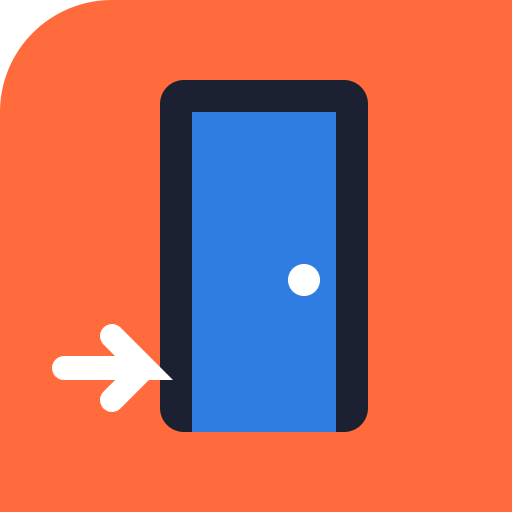
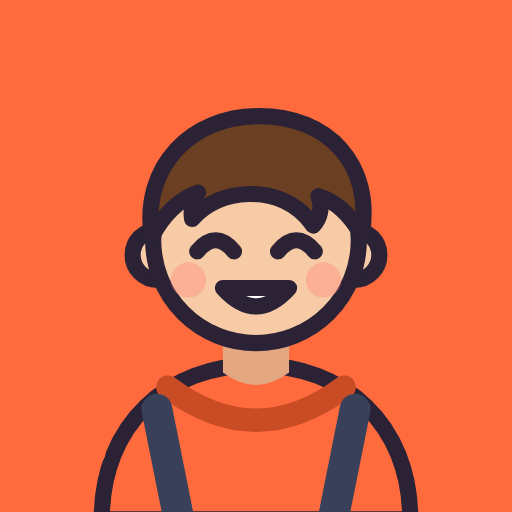
Dibujos propios en SVG para el jugador, el jefe, los compañeros, la oficina, los objetos y las cartas

diff --git a/style.css b/style.css
@@ -28,7 +28,8 @@ body { margin: 0; background: var(--bg); color: var(--ink); font-family: Inter, 
 main { max-width: 920px; margin: 0 auto; padding: 0 16px 24px; }
 .top { max-width: 920px; margin: 0 auto; padding: 14px 16px; display: flex; align-items: center; justify-content: space-between; gap: 12px; }
 .brand { display: flex; align-items: center; gap: 10px; }
-.logo { width: 44px; height: 44px; border-radius: 12px; display: grid; place-items: center; font-size: 1.4rem; background: var(--accent); }
+.logo { width: 44px; height: 44px; border-radius: 12px; display: grid; place-items: center; background: var(--accent); overflow: hidden; }
+.logo img { width: 100%; height: 100%; transform: translateY(3px); }
 h1 { margin: 0; font-family: 'Space Grotesk', sans-serif; font-size: 1.45rem; line-height: 1; }
 .brand p { margin: 3px 0 0; color: var(--muted); font-size: .85rem; }
 .snd { color: var(--muted); font-size: .85rem; display: flex; align-items: center; gap: 6px; }
@@ -46,31 +47,41 @@ h1 { margin: 0; font-family: 'Space Grotesk', sans-serif; font-size: 1.45rem; li
 .play { display: grid; gap: 14px; }
 .office { display: grid; grid-template-columns: repeat(var(--w), 1fr); gap: 3px; padding: 6px; border-radius: 16px; background: var(--line); max-width: 460px; width: 100%; margin: 0 auto; box-shadow: 0 14px 30px rgba(20, 30, 60, .18); }
 .cell { appearance: none; position: relative; aspect-ratio: 1; border: 0; border-radius: 6px; padding: 0; font: inherit; background: var(--floor); display: grid; place-items: center; cursor: default; overflow: hidden; }
-.cell:nth-child(odd) { background: var(--floor-2); }
-.cell.desk { background: linear-gradient(var(--desk-top), var(--desk)); box-shadow: inset 0 -4px 0 rgba(0,0,0,.18); font-size: clamp(.8rem, 4vw, 1.3rem); }
+.cell:nth-child(odd) { background-color: var(--floor-2); }
+.cell:not(.desk) { background-image: radial-gradient(rgba(60, 70, 100, .09) 1px, transparent 1.4px); background-size: 6px 6px; }
+.cell.seen:not(.desk) { background-image: linear-gradient(var(--seen), var(--seen)), radial-gradient(rgba(60, 70, 100, .09) 1px, transparent 1.4px); background-size: auto, 6px 6px; }
+.cell.desk { background: linear-gradient(180deg, #d0a574, #b88b5b); box-shadow: inset 0 -5px 0 #8f6a45, inset 0 2px 0 rgba(255, 255, 255, .25); border-radius: 4px; }
+.cell.desk:nth-child(odd) { background: linear-gradient(180deg, #cba06f, #b38656); }
+.deskobj { position: absolute; inset: 12% 12% 18%; }
+.art { display: block; width: 100%; height: 100%; object-fit: contain; pointer-events: none; -webkit-user-drag: none; }
+.art.tile { position: absolute; inset: 0; }
+.art.mini { display: inline-block; width: 1.25em; height: 1.25em; vertical-align: -.3em; }
+.ico { width: 1.3em; height: 1.3em; vertical-align: -.3em; }
 .cell.seen { background-image: linear-gradient(var(--seen), var(--seen)); }
 .cell.can { cursor: pointer; box-shadow: inset 0 0 0 2px var(--move); }
 .cell.can::after { content: ''; position: absolute; width: 22%; aspect-ratio: 1; border-radius: 50%; background: var(--move); opacity: .55; }
 .cell.can:has(.obj)::after { display: none; }
-.obj { font-size: clamp(1rem, 5.2vw, 1.55rem); line-height: 1; }
+.obj { position: absolute; inset: 6%; display: block; line-height: 1; }
+.obj.mate { inset: 4% 8% 0; }
 .obj.done { filter: grayscale(.6); opacity: .7; }
-.obj.faint { opacity: .45; }
-.tok { position: absolute; inset: 0; display: grid; place-items: center; font-size: clamp(1.15rem, 6vw, 1.8rem); line-height: 1; z-index: 2; }
-.tok.me { background: radial-gradient(circle, rgba(47, 125, 225, .38) 0 58%, transparent 60%); }
-.tok.boss { background: radial-gradient(circle, rgba(235, 52, 52, .4) 0 58%, transparent 60%); }
+.obj.faint { inset: 0; opacity: .55; }
+.tok { position: absolute; inset: 0; display: grid; place-items: end center; padding: 4% 8% 0; z-index: 2; animation: bob 1.6s ease-in-out infinite; }
+@keyframes bob { 50% { transform: translateY(-4%); } }
+.tok.me { background: radial-gradient(ellipse 46% 20% at 50% 92%, rgba(47, 125, 225, .55), transparent); }
+.tok.boss { background: radial-gradient(ellipse 46% 20% at 50% 92%, rgba(235, 52, 52, .6), transparent); }
 .tok.boss.angry { animation: shake .4s ease infinite; filter: drop-shadow(0 0 6px rgba(235, 52, 52, .95)); }
-.dot { position: absolute; right: 3px; top: 3px; width: 9px; height: 9px; border-radius: 50%; border: 1.5px solid #fff; }
+.dot { position: absolute; right: 3px; top: 3px; width: 9px; height: 9px; border-radius: 50%; border: 1.5px solid #fff; z-index: 1; }
 .dot.azul { background: var(--azul); } .dot.verde { background: var(--verde); } .dot.naranja { background: var(--naranja); }
-.q { position: absolute; right: 3px; top: 0; font-style: normal; font-weight: 800; font-size: .7rem; color: var(--muted); }
-.tick { position: absolute; left: 3px; bottom: 0; font-style: normal; font-weight: 800; color: var(--verde); font-size: .8rem; }
-.lock { position: absolute; right: 1px; bottom: 0; font-style: normal; font-size: .7rem; }
+.q { position: absolute; right: 2px; top: 1px; z-index: 1; width: 15px; height: 15px; border-radius: 50%; display: grid; place-items: center; font-style: normal; font-weight: 800; font-size: .65rem; color: #fff; background: var(--accent); }
+.tick { position: absolute; left: 2px; bottom: 2px; z-index: 1; width: 15px; height: 15px; border-radius: 50%; display: grid; place-items: center; font-style: normal; font-weight: 800; color: #fff; background: var(--verde); font-size: .65rem; }
+.lock { position: absolute; right: 2px; bottom: 2px; width: 34%; aspect-ratio: 1; z-index: 1; }
 @keyframes shake { 25% { transform: translateX(-1px) rotate(-4deg); } 75% { transform: translateX(1px) rotate(4deg); } }
 
 .side { max-width: 460px; width: 100%; margin: 0 auto; display: flex; flex-direction: column; gap: 10px; }
 .label { margin: 0 0 4px; font-size: .72rem; color: var(--muted); text-transform: uppercase; letter-spacing: .06em; font-weight: 700; }
 .boss-card { display: flex; gap: 12px; align-items: center; padding: 10px 14px; border-radius: 14px; background: var(--card); border: 2px dashed var(--line); }
 .boss-card.is-now { border-style: solid; border-color: var(--accent); }
-.card-emoji { font-size: 1.9rem; }
+.card-emoji { width: 52px; height: 52px; flex: none; border-radius: 12px; background: var(--bg); padding: 4px; }
 .boss-card strong { display: block; }
 .boss-card small { color: var(--muted); }
 .log { margin: 0; min-height: 3em; padding: 8px 12px; border-radius: 12px; background: color-mix(in srgb, var(--accent) 10%, var(--card)); font-size: .92rem; }
@@ -86,6 +97,8 @@ h1 { margin: 0; font-family: 'Space Grotesk', sans-serif; font-size: 1.45rem; li
 .btn { appearance: none; font: inherit; font-weight: 600; color: var(--ink); background: var(--card); border: 1.5px solid var(--line); border-radius: 12px; padding: 11px; cursor: pointer; }
 .btn:disabled { opacity: .45; cursor: default; }
 .btn-main { background: var(--accent); color: #fff; border-color: var(--accent); }
+.btn-ico { display: flex; align-items: center; justify-content: center; gap: 8px; }
+.btn-ico img { width: 28px; height: 28px; margin: -6px 0; }
 .mates { list-style: none; margin: 0; padding: 0; display: flex; flex-wrap: wrap; gap: 6px; }
 .mates li { position: relative; padding: 4px 10px 4px 20px; border-radius: 999px; background: var(--card); border: 1px solid var(--line); font-size: .85rem; }
 .mates li .dot { left: 7px; top: 50%; transform: translateY(-50%); right: auto; }
@@ -97,7 +110,7 @@ h1 { margin: 0; font-family: 'Space Grotesk', sans-serif; font-size: 1.45rem; li
 .info li { margin: 5px 0; }
 .end { position: fixed; inset: 0; background: rgba(10, 14, 24, .55); display: grid; place-items: center; padding: 16px; z-index: 20; }
 .end-card { background: var(--card); border-radius: 22px; padding: 24px 20px; text-align: center; max-width: 360px; width: 100%; }
-.end-emoji { font-size: 3rem; }
+.end-emoji { display: block; width: 110px; height: 110px; margin: 0 auto; }
 .end-card h2 { font-family: 'Space Grotesk', sans-serif; margin: 6px 0; font-size: 1.8rem; }
 .end-card p { color: var(--muted); margin: 0 0 16px; }
 .end-actions { display: grid; gap: 8px; }

diff --git a/script.js b/script.js
@@ -17,9 +17,9 @@ const STORE = 'huida-lunes-v1';
 const STEP_MS = 140;
 
 const MATES = [
-  { name: 'Ana', emoji: '👩💼', color: 'azul' },
-  { name: 'Luis', emoji: '👨💻', color: 'verde' },
-  { name: 'Marta', emoji: '👩🔬', color: 'naranja' }
+  { name: 'Ana', emoji: '👩💼', art: 'ana', color: 'azul' },
+  { name: 'Luis', emoji: '👨💻', art: 'luis', color: 'verde' },
+  { name: 'Marta', emoji: '👩🔬', art: 'marta', color: 'naranja' }
 ];
 const ITEMS = {
   cafe: { emoji: '☕', name: 'Café', text: 'Este turno mueves 3 casillas más.' },
@@ -40,6 +40,10 @@ const LEVELS = {
   dificil: { name: 'Difícil', vision: 6, turns: 30, deck: { ronda: 3, prisa: 4, cafe: 1, reunion: 0, inspeccion: 2, llama: 2 } }
 };
 const MOVE = 3;
+// dibujos de assets/ (SVG propios)
+const art = (name, cls = '') => `<img class="art ${cls}" src="assets/${name}.svg" alt="" draggable="false">`;
+const ITEM_ART = { cafe: 'cafe', excusa: 'excusa', llamada: 'llamada' };
+const CARD_ART = { ronda: 'carta-ronda', prisa: 'carta-prisa', cafe: 'carta-cafe', reunion: 'carta-reunion', inspeccion: 'carta-inspeccion', llama: 'carta-llama' };
 
 /* ------------------------------- Azar con semilla ------------------------------- */
 
@@ -353,7 +357,7 @@ function finish(win, why) {
 
 function showEnd() {
   const e = G.end;
-  el.endEmoji.textContent = e.win ? '🏃♂💨' : e.why === 'time' ? '🕕' : '😱';
+  el.endEmoji.innerHTML = art(e.win ? 'yo-huye' : e.why === 'time' ? 'reloj' : 'jefe-enfadado');
   el.endTitle.textContent = e.win ? '¡Has escapado!' : e.why === 'time' ? 'Horas extra' : '¡Te ha pillado!';
   el.endText.textContent = e.win
     ? `Sales por la puerta a las ${clock(G.turn)}. El jefe ni se ha enterado.`
@@ -373,18 +377,19 @@ function render() {
     let inner = '';
     if (G.walls[c]) {
       cls += ' desk';
-      inner = G.plants.includes(c) ? '🪴' : (c * 7) % 5 === 0 ? '🖥' : '';
+      const obj = G.plants.includes(c) ? 'obj-planta' : (c * 7) % 5 === 0 ? 'obj-pc' : ['', 'obj-papeles', '', 'obj-taza', '', 'obj-carpeta'][c % 6];
+      inner = obj ? art(obj, 'deskobj') : '';
     } else {
       if (vis.has(c) && !G.stunned) cls += ' seen';
       if (can.has(c)) cls += ' can';
       const pr = G.printers.find((p) => p.c === c);
       const m = G.mates.find((x) => x.c === c);
-      if (pr) inner = `<span class="obj">🖨</span>${pr.seen ? `<i class="dot ${MATES[pr.mate].color}"></i>` : '<i class="q">?</i>'}`;
-      else if (m) inner = `<span class="obj${m.done ? ' done' : ''}">${MATES[m.mate].emoji}</span><i class="dot ${MATES[m.mate].color}"></i>${m.done ? '<i class="tick">✓</i>' : ''}`;
-      else if (c === G.exit) inner = `<span class="obj">🚪</span>${exitOpen() ? '' : '<i class="lock">🔒</i>'}`;
-      else if (c === G.office) inner = '<span class="obj faint">🗂</span>';
-      if (c === G.me) inner += '<span class="tok me">🙋</span>';
-      if (c === G.boss) inner += `<span class="tok boss${G.bossMode === 'chase' ? ' angry' : ''}">${G.stunned ? '📞' : '🧔'}</span>`;
+      if (pr) inner = `<span class="obj">${art(pr.seen ? 'impresora-' + MATES[pr.mate].color : 'impresora')}</span>${pr.seen ? `<i class="dot ${MATES[pr.mate].color}"></i>` : '<i class="q">?</i>'}`;
+      else if (m) inner = `<span class="obj mate${m.done ? ' done' : ''}">${art(MATES[m.mate].art + (m.done ? '-ok' : ''))}</span><i class="dot ${MATES[m.mate].color}"></i>${m.done ? '<i class="tick">✓</i>' : ''}`;
+      else if (c === G.exit) inner = `<span class="obj">${art(exitOpen() ? 'puerta-abierta' : 'puerta')}</span>${exitOpen() ? '' : `<i class="lock">${art('candado')}</i>`}`;
+      else if (c === G.office) inner = `<span class="obj faint">${art('despacho', 'tile')}</span>`;
+      if (c === G.me) inner += `<span class="tok me">${art('yo')}</span>`;
+      if (c === G.boss) inner += `<span class="tok boss${G.bossMode === 'chase' ? ' angry' : ''}">${art(G.stunned ? 'jefe-telefono' : G.bossMode === 'chase' ? 'jefe-enfadado' : 'jefe')}</span>`;
     }
     cells.push(`<button type="button" class="${cls}" data-c="${c}" ${can.has(c) ? '' : 'tabindex="-1"'}>${inner}</button>`);
   }
@@ -394,14 +399,14 @@ function render() {
   el.reports.textContent = `${G.mates.filter((m) => m.done).length}/3`;
   el.level.textContent = G.mode === 'daily' ? 'Oficina del día' : `Oficina al azar · ${G.L.name}`;
   const card = CARDS[G.phase === 'boss' ? G.shown : G.next];
-  el.card.innerHTML = `<span class="card-emoji">${card.emoji}</span><div><strong>${card.name}</strong><small>${G.stunned ? 'Está al teléfono: no se mueve.' : card.text}</small></div>`;
+  el.card.innerHTML = `<span class="card-emoji">${art(G.stunned ? 'jefe-telefono' : CARD_ART[G.phase === 'boss' ? G.shown : G.next])}</span><div><strong>${card.name}</strong><small>${G.stunned ? 'Está al teléfono: no se mueve.' : card.text}</small></div>`;
   el.card.classList.toggle('is-now', G.phase === 'boss');
   el.cardLabel.textContent = G.phase === 'boss' ? 'El jefe mueve' : 'Lo próximo del jefe';
-  el.carry.innerHTML = G.carry.length ? G.carry.map((m) => `<span class="chip ${MATES[m].color}">📄 ${MATES[m].name}</span>`).join('') : '<span class="none">Nada</span>';
-  el.items.innerHTML = G.items.length ? G.items.map((it, i) => `<button type="button" class="item" data-item="${i}" ${it === 'excusa' ? 'disabled' : ''} title="${ITEMS[it].text}">${ITEMS[it].emoji} ${ITEMS[it].name}${it === 'excusa' ? '<small>se usa sola</small>' : ''}</button>`).join('') : '<span class="none">Nada</span>';
+  el.carry.innerHTML = G.carry.length ? G.carry.map((m) => `<span class="chip ${MATES[m].color}">${art('informe', 'mini')} ${MATES[m].name}</span>`).join('') : '<span class="none">Nada</span>';
+  el.items.innerHTML = G.items.length ? G.items.map((it, i) => `<button type="button" class="item" data-item="${i}" ${it === 'excusa' ? 'disabled' : ''} title="${ITEMS[it].text}">${art(ITEM_ART[it], 'mini')} ${ITEMS[it].name}${it === 'excusa' ? '<small>se usa sola</small>' : ''}</button>`).join('') : '<span class="none">Nada</span>';
   el.log.textContent = G.log;
   el.stay.disabled = G.phase !== 'player' || G.busy || Boolean(G.end);
-  el.mates.innerHTML = G.mates.map((m) => `<li class="${m.done ? 'done' : ''}"><i class="dot ${MATES[m.mate].color}"></i>${MATES[m.mate].emoji} ${MATES[m.mate].name}${m.done ? ' ✓' : ''}</li>`).join('');
+  el.mates.innerHTML = G.mates.map((m) => `<li class="${m.done ? 'done' : ''}"><i class="dot ${MATES[m.mate].color}"></i>${art(MATES[m.mate].art + (m.done ? '-ok' : ''), 'mini')} ${MATES[m.mate].name}${m.done ? ' ✓' : ''}</li>`).join('');
   document.querySelectorAll('[data-level]').forEach((b) => b.classList.toggle('is-on', b.dataset.level === store.level && G.mode !== 'daily'));
   document.querySelectorAll('[data-mode]').forEach((b) => b.classList.toggle('is-on', b.dataset.mode === G.mode));
   el.wins.textContent = `${store.wins} de ${store.played}`;

diff --git a/index.html b/index.html
@@ -22,14 +22,14 @@
 <link rel="preconnect" href="https://fonts.googleapis.com">
 <link rel="preconnect" href="https://fonts.gstatic.com" crossorigin>
 <link href="https://fonts.googleapis.com/css2?family=Space+Grotesk:wght@500;700&family=Inter:wght@400;500;600;700&display=swap" rel="stylesheet">
-<link rel="stylesheet" href="style.css?v=1">
+<link rel="stylesheet" href="style.css?v=2">
 <script type="application/ld+json">
 {"@context":"https://schema.org","@graph":[{"@type":["WebApplication","Game"],"name":"Huida del lunes","url":"https://adrianezd.github.io/huida-del-lunes/","description":"Juego de mesa de un jugador: escapa de la oficina sin que te pille el jefe.","inLanguage":"es","applicationCategory":"GameApplication","operatingSystem":"Any","isAccessibleForFree":true,"numberOfPlayers":{"@type":"QuantitativeValue","value":1},"offers":{"@type":"Offer","price":"0","priceCurrency":"EUR"}},{"@type":"FAQPage","mainEntity":[{"@type":"Question","name":"¿Cómo se gana?","acceptedAnswer":{"@type":"Answer","text":"Entrega el informe de cada uno de tus tres compañeros y sal por la puerta antes de las 18:00 sin que el jefe te pille."}},{"@type":"Question","name":"¿Cómo se mueve el jefe?","acceptedAnswer":{"@type":"Answer","text":"Solo: patrulla por la oficina y mira en línea recta. Si te ve, va a por ti. Cuánto anda cada turno lo decide una carta que puedes ver antes de mover."}}]}]}
 </script>
 </head>
 <body>
 <header class="top">
-  <div class="brand"><span class="logo" aria-hidden="true">🏃</span><div><h1>Huida del lunes</h1><p id="level">Oficina del día</p></div></div>
+  <div class="brand"><span class="logo" aria-hidden="true"><img src="assets/yo-huye.svg" alt=""></span><div><h1>Huida del lunes</h1><p id="level">Oficina del día</p></div></div>
   <label class="snd"><input type="checkbox" id="sound"> Sonido</label>
 </header>
 
@@ -61,7 +61,7 @@
         <div class="box"><p class="label">Llevas</p><div class="carry" id="carry"></div></div>
         <div class="box"><p class="label">Objetos</p><div class="items" id="items"></div></div>
       </div>
-      <button type="button" class="btn" id="stay">🫥 Esperar</button>
+      <button type="button" class="btn btn-ico" id="stay"><img src="assets/esperar.svg" alt="">Esperar</button>
       <ul class="mates" id="mates"></ul>
       <p class="wins">Huidas: <strong id="wins">0</strong></p>
     </aside>
@@ -72,9 +72,9 @@
     <ol>
       <li>Es lunes y quieres irte. Pero antes, cada uno de tus tres compañeros necesita su informe.</li>
       <li>Toca una casilla marcada para moverte hasta 3 casillas. No puedes atravesar mesas ni al jefe.</li>
-      <li>Las 🖨 impresoras están tapadas: al pasar por una descubres de quién es su informe y lo coges. Puedes llevar dos a la vez. Ojo, hacen ruido.</li>
-      <li>Lleva cada informe a su compañero. Te cubre y te da un objeto: ☕ café para correr más, 📎 una excusa por si te pillan o 📞 una llamada falsa que entretiene al jefe.</li>
-      <li>Con los tres informes entregados, la 🚪 puerta se abre. ¡Sal por ella!</li>
+      <li>Las <img class="ico" src="assets/impresora.svg" alt=""> impresoras están tapadas: al pasar por una descubres de quién es su informe y lo coges. Puedes llevar dos a la vez. Ojo, hacen ruido.</li>
+      <li>Lleva cada informe a su compañero. Te cubre y te da un objeto: <img class="ico" src="assets/cafe.svg" alt=""> café para correr más, <img class="ico" src="assets/excusa.svg" alt=""> una excusa por si te pillan o <img class="ico" src="assets/llamada.svg" alt=""> una llamada falsa que entretiene al jefe.</li>
+      <li>Con los tres informes entregados, la <img class="ico" src="assets/puerta.svg" alt=""> puerta se abre. ¡Sal por ella!</li>
       <li>Después de cada movimiento tuyo se mueve el jefe. Patrulla y mira en línea recta: las casillas rojas son las que ve. Si te ve, va a por ti. Su próxima carta está a la vista.</li>
       <li>Pierdes si te pilla o si dan las 18:00 sin haber salido.</li>
     </ol>
@@ -82,7 +82,7 @@
 
   <div class="end" id="end" hidden>
     <div class="end-card" role="dialog" aria-labelledby="end-title">
-      <span class="end-emoji" id="end-emoji">🏃</span>
+      <span class="end-emoji" id="end-emoji"></span>
       <h2 id="end-title">¡Has escapado!</h2>
       <p id="end-text"></p>
       <div class="end-actions">
@@ -97,6 +97,6 @@
 <footer class="foot">
   <p>Juego de mesa de un jugador original. Más juegos gratis en <a href="https://adrianezd.github.io/portal/">el portal</a>.</p>
 </footer>
-<script src="script.js?v=1"></script>
+<script src="script.js?v=2"></script>
 </body>
 </html>

diff --git a/sw.js b/sw.js
@@ -1,7 +1,7 @@
 'use strict';
 /* Service worker: copia guardada para jugar sin conexión (responde con la copia y la actualiza por detrás). */
-const CACHE = 'huida-del-lunes-v1';
-const CORE = ["./","index.html","style.css","script.js","favicon.svg","manifest.json","icon-512.png"];
+const CACHE = 'huida-del-lunes-v2';
+const CORE = ["./","index.html","style.css","script.js","favicon.svg","manifest.json","icon-512.png","assets/ana-ok.svg","assets/ana.svg","assets/cafe.svg","assets/candado.svg","assets/carta-cafe.svg","assets/carta-inspeccion.svg","assets/carta-llama.svg","assets/carta-prisa.svg","assets/carta-reunion.svg","assets/carta-ronda.svg","assets/despacho.svg","assets/esperar.svg","assets/excusa.svg","assets/impresora-azul.svg","assets/impresora-naranja.svg","assets/impresora-verde.svg","assets/impresora.svg","assets/informe.svg","assets/jefe-enfadado.svg","assets/jefe-telefono.svg","assets/jefe.svg","assets/llamada.svg","assets/luis-ok.svg","assets/luis.svg","assets/marta-ok.svg","assets/marta.svg","assets/obj-carpeta.svg","assets/obj-papeles.svg","assets/obj-pc.svg","assets/obj-planta.svg","assets/obj-taza.svg","assets/puerta-abierta.svg","assets/puerta.svg","assets/reloj.svg","assets/ruido.svg","assets/yo-huye.svg","assets/yo.svg"];
 self.addEventListener('install', (e) => { e.waitUntil(caches.open(CACHE).then((c) => c.addAll(CORE)).then(() => self.skipWaiting())); });
 self.addEventListener('activate', (e) => { e.waitUntil(caches.keys().then((ks) => Promise.all(ks.filter((k) => k !== CACHE).map((k) => caches.delete(k)))).then(() => self.clients.claim())); });
 self.addEventListener('fetch', (e) => {
